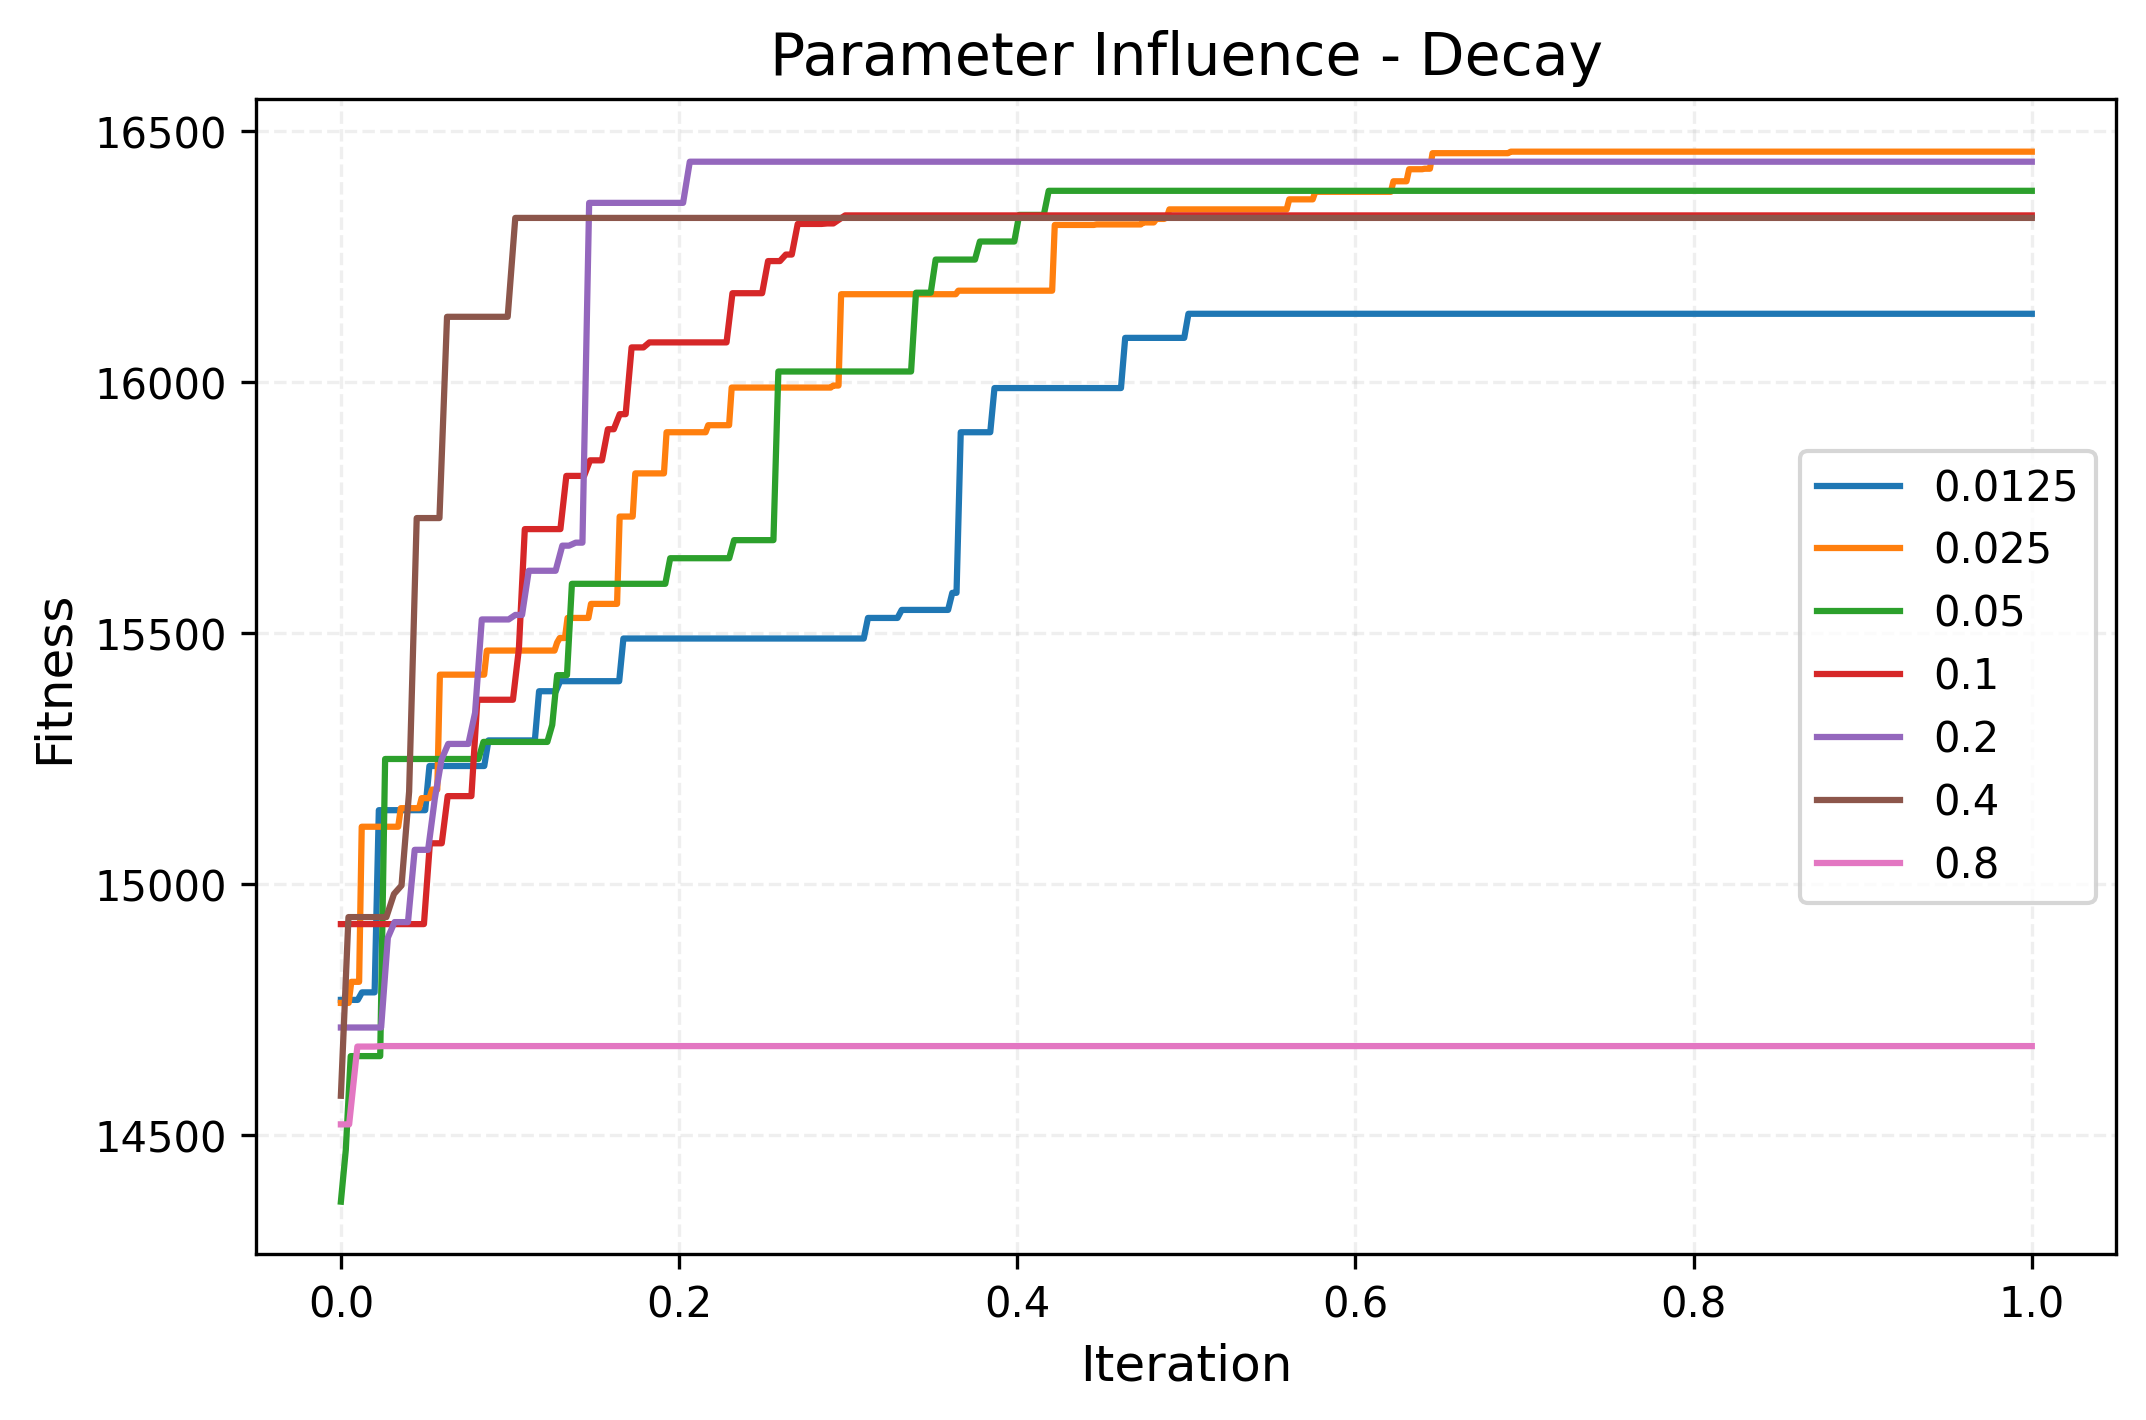
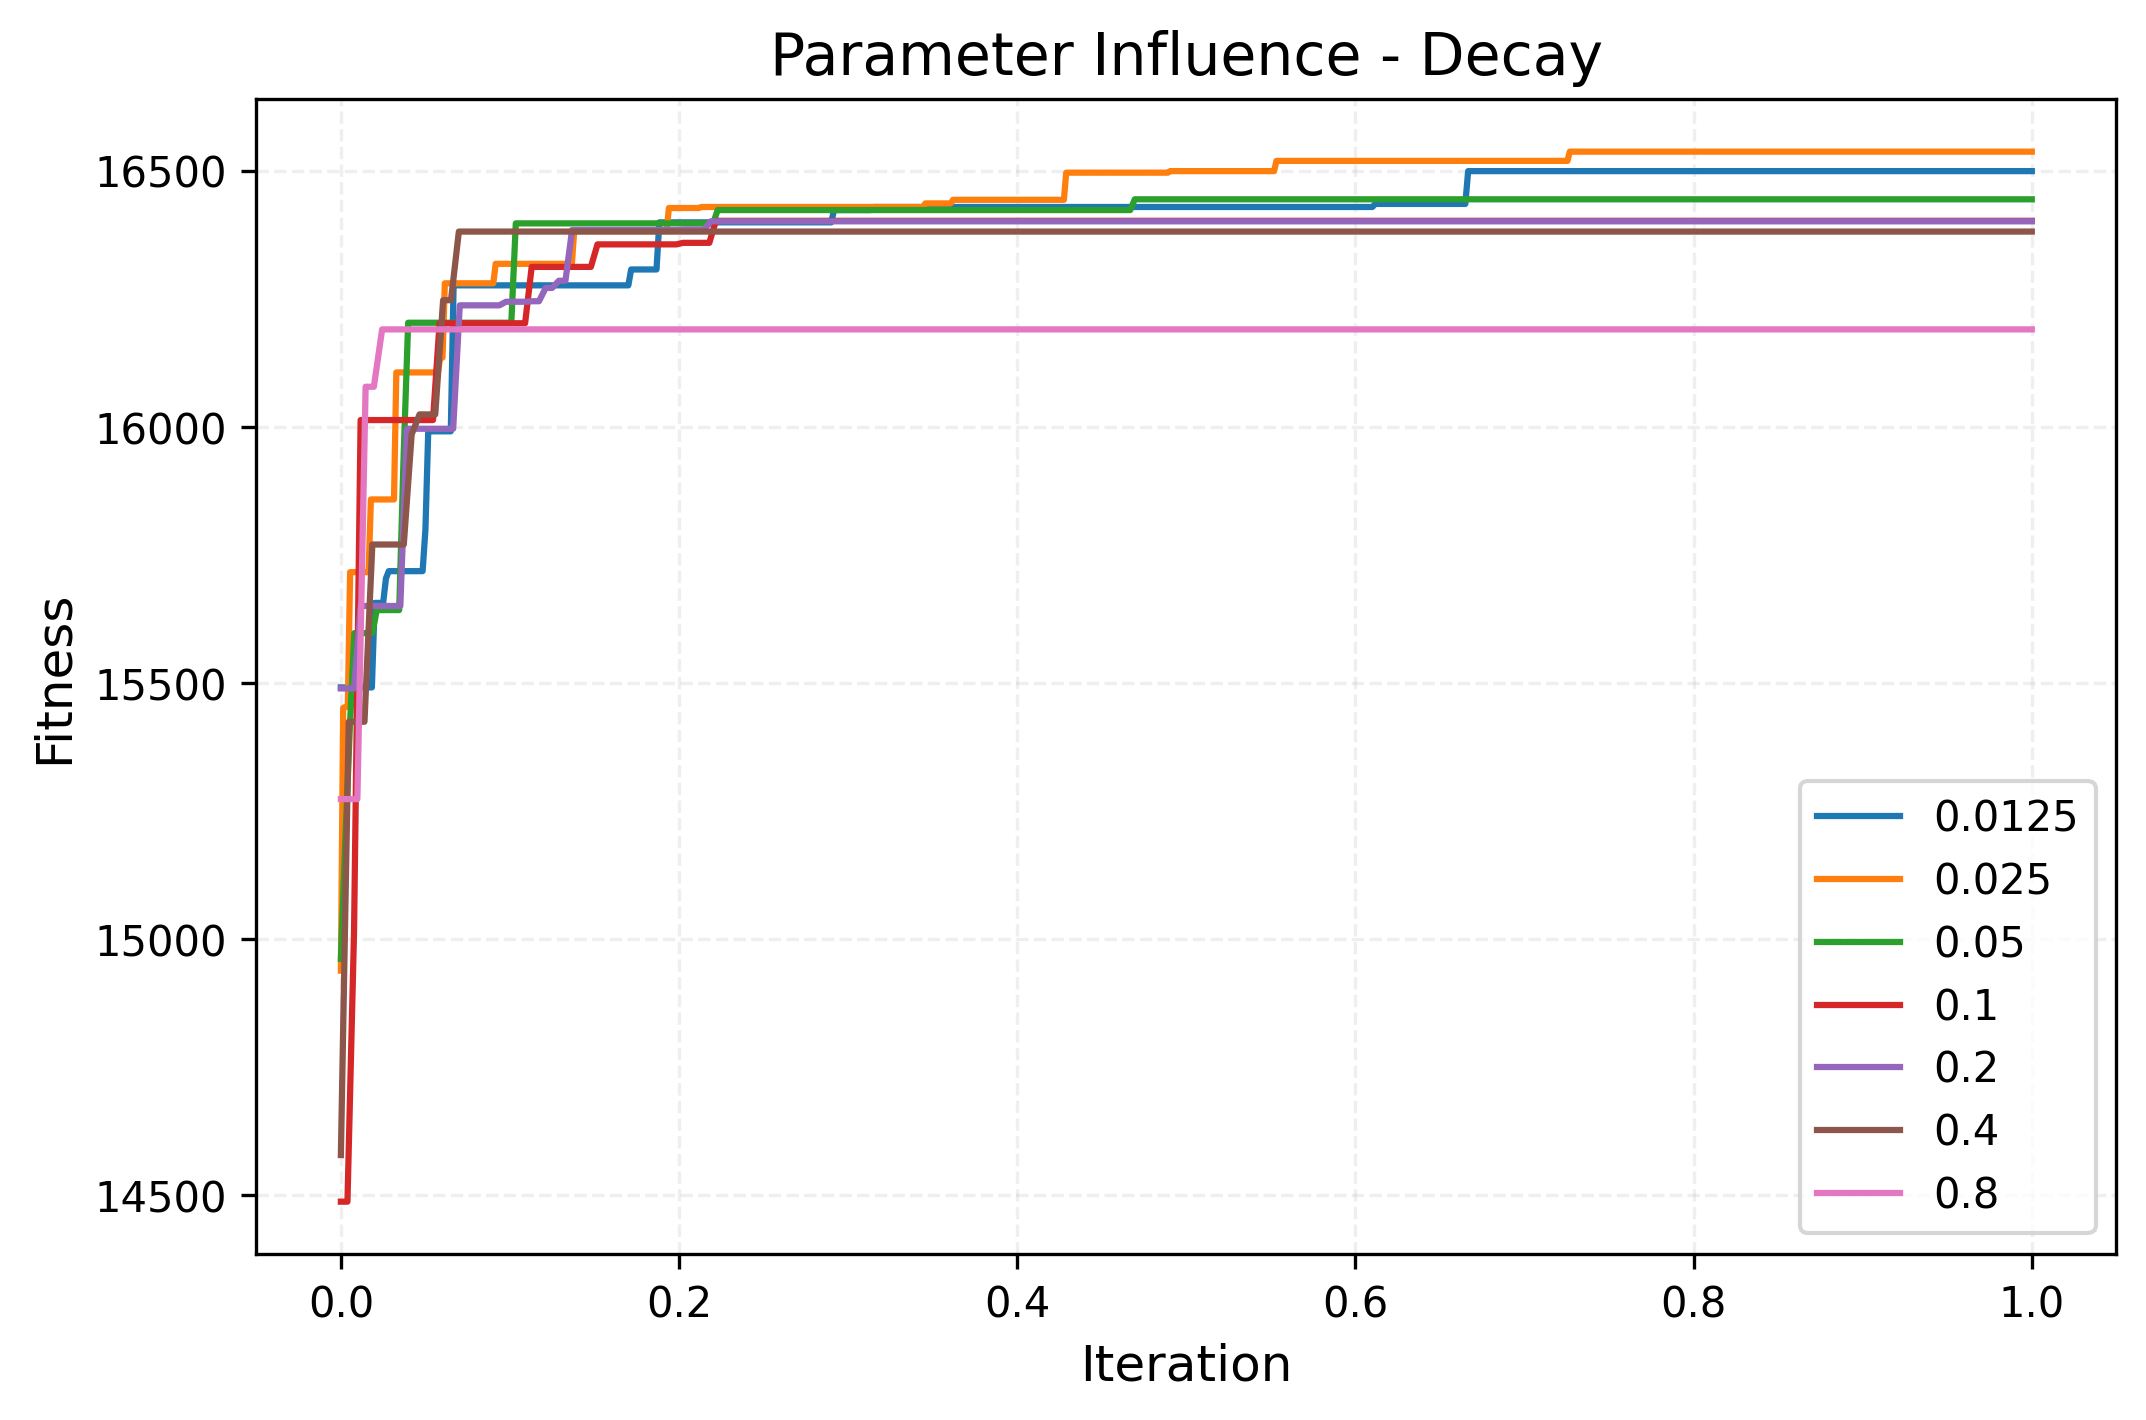
aco plots update

diff --git a/solvers/ACO.py b/solvers/ACO.py
@@ -106,8 +106,8 @@ class AntColonyOptimizer(BaseSolver):
     def _calculate_heuristic(self, problem: MKPInstance):
         
         eta = np.zeros((problem.n, problem.n))
-        for item in range(problem.n):
-            weight = (problem.r[:, item] / problem.b).mean()
+        for item in range(1, problem.n):
+            weight = 1 / (problem.r[:, item]).mean()
             eta[:, item].fill(problem.p[item] * weight)
             eta[item, item] = 0
 

diff --git a/aco_plots/plot_pheromone.py b/aco_plots/plot_pheromone.py
@@ -50,9 +50,10 @@ def plot_pheromones(pheromones: np.ndarray, save_path):
 aco_params = {
     'max_iter': 1000,
     'num_ants': 10,
-    'decay': 0.025,
+    # 'decay': 0.025,
+    'decay': 0.1,
     'alpha': 1.0,
-    'beta': 1.0,
+    'beta': 0.25,
     'n_early_stop': 200
 }
 

diff --git a/aco_plots/plot_decay_influence.py b/aco_plots/plot_decay_influence.py
@@ -33,7 +33,7 @@ aco_params = {
     'num_ants': 10,
     'decay': 0.1,
     'alpha': 1.0,
-    'beta': 1.0,
+    'beta': 0.25,
     'n_early_stop': 200
 }
 
